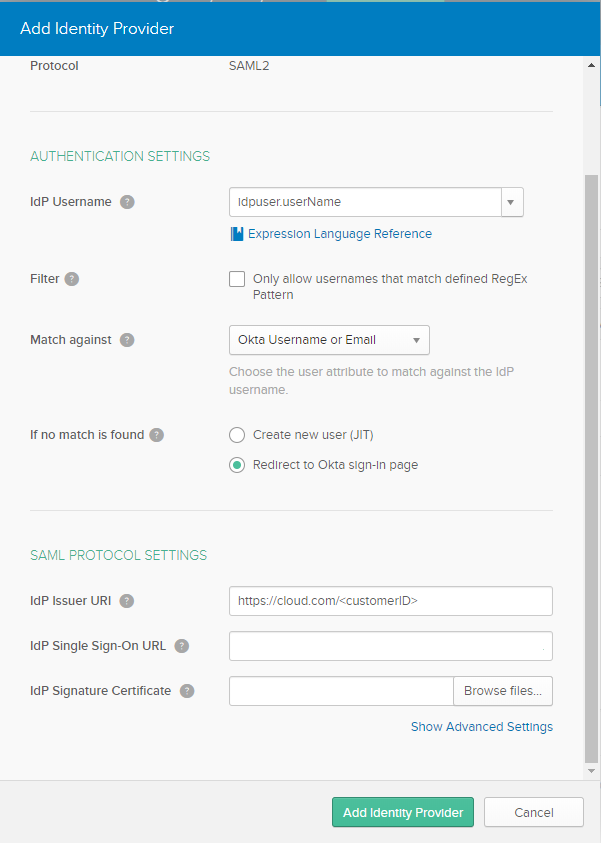
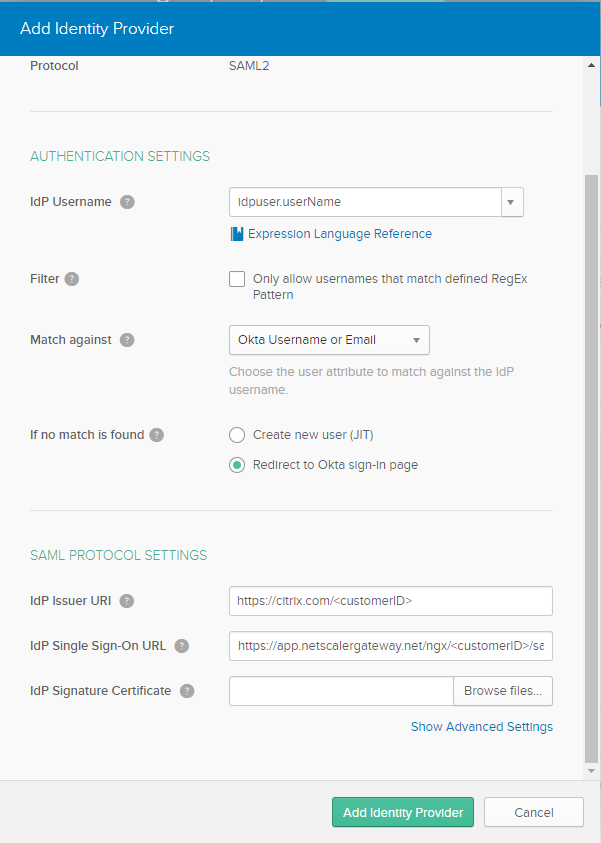
mods

Changed region(s): [[0.3894, 0.7094, 0.8985, 0.7711]]

diff --git a/en-us/tech-zone/learn/poc-guides/secure-access-saas-apps.md b/en-us/tech-zone/learn/poc-guides/secure-access-saas-apps.md
@@ -100,7 +100,7 @@ To successfully integrate Okta apps with Citrix Workspace, the administrator nee
 
 *  Log into Citrix cloud as an administrator
 *  Under the **Identity and Access Management** section, select **API Access**
-*  Capture the **customer ID** parameter.  This is used to create the IdP Issuer URI in the format: `https://cloud.com/<customerID>`
+*  Capture the **customer ID** parameter.  This is used to create the IdP Issuer URI in the format: `https://citrix.com/<customerID>`
 
 [![IdP Issuer URI](/en-us/tech-zone/learn/media/poc-guides_secure-access-saas-apps_idp-issuer-uri.png)](/en-us/tech-zone/learn/media/poc-guides_secure-access-saas-apps_idp-issuer-uri.png)
 
@@ -130,9 +130,10 @@ Okta needs to use Citrix Workspace as a SAML identity provider, resulting in Okt
 
 *  Select **Add a Web/SaaS app**
 *  In the Choose a template wizard, select **Skip**
+*  Because this is a SaaS app, select **Outside my corporate network**
 *  In the App details window, provide a **name** for the application
 *  For the URL, use the **App Embed Link** from the Identity SAML Login URL section
-*  For related domains, one is automatically added based on the entered URL added in the previous step. That specific related domain is associated with the Okta application link. Citrix Workspace requires additional related domains for the actual application, which will often be `*.<companyID>.SaaSApp.com` (as an example *.citrix.slack.com)
+*  Enhanced security policies uses the related domains field to determine the URLs to secure. One related domain is automatically added based on the entered URL added in the previous step. That specific related domain is associated with the Okta application link. Enhanced security policies require additional related domains for the actual application, which will often be `*.<companyID>.SaaSApp.com` (as an example *.citrix.slack.com)
 
 [![Setup SaaS App 02](/en-us/tech-zone/learn/media/poc-guides_secure-access-saas-apps_add-saas-app-02.png)](/en-us/tech-zone/learn/media/poc-guides_secure-access-saas-apps_add-saas-app-02.png)
 
@@ -142,9 +143,9 @@ Okta needs to use Citrix Workspace as a SAML identity provider, resulting in Okt
 
 [![Setup SaaS App 03](/en-us/tech-zone/learn/media/poc-guides_secure-access-saas-apps_add-saas-app-03.png)](/en-us/tech-zone/learn/media/poc-guides_secure-access-saas-apps_add-saas-app-03.png)
 
-*  Switch back to the Okta configuration
+*  Switch back to the Okta configuration. The **Add Identity Provider** dialog should still be visible
 *  For the **IdP Single Sign-On URL**, use the Citrix Login URL copied from the previous step. It should resemble `https://app.netscalergateway.net/ngs/<customerid>/saml/login?APPID=2347894324327`
-*  Add the certificate to the SAML-based IdP configuration.
+*  In the **IdP Signature Certificate**, brows for the downloaded PEM certificate
 
 [![Setup SaaS App 04](/en-us/tech-zone/learn/media/poc-guides_secure-access-saas-apps_add-saas-app-04.png)](/en-us/tech-zone/learn/media/poc-guides_secure-access-saas-apps_add-saas-app-04.png)
 
@@ -158,6 +159,9 @@ Okta needs to use Citrix Workspace as a SAML identity provider, resulting in Okt
 *  The Name ID Format and Name ID can remain as email. Okta uses the Email address to associate with an Okta user.
 
 [![Setup SaaS App 06](/en-us/tech-zone/learn/media/poc-guides_secure-access-saas-apps_add-saas-app-06.png)](/en-us/tech-zone/learn/media/poc-guides_secure-access-saas-apps_add-saas-app-06.png)
+
+*  Select **Save**
+*  Select **Finish**
 
 ### Authorize SaaS App
 
@@ -182,7 +186,9 @@ So far, the configuration supports an IdP-initiated launch process, where the us
 
 [![Okta Identity Provider Routing Rule](/en-us/tech-zone/learn/media/poc-guides_secure-access-saas-apps_okta-idp-routing.png)](/en-us/tech-zone/learn/media/poc-guides_secure-access-saas-apps_okta-idp-routing.png)
 
-***Note**: During the configuration, the Okta admin might be unable to sign into the Okta admin console because the inbound SAML configuration is incomplete.  If this happens, the admin can bypass the IdP routing rule by accessing the Okta enviornment witht he following address: `http://companyname.oka.com/login/default`*
+* Select **Activate**
+
+***Note**: During the configuration, the Okta admin might be unable to sign into the Okta admin console because the inbound SAML configuration is incomplete.  If this happens, the admin can bypass the IdP routing rule by accessing the Okta enviornment with the following address: `http://companyname.oka.com/login/default`*
 
 ### Validate
 
